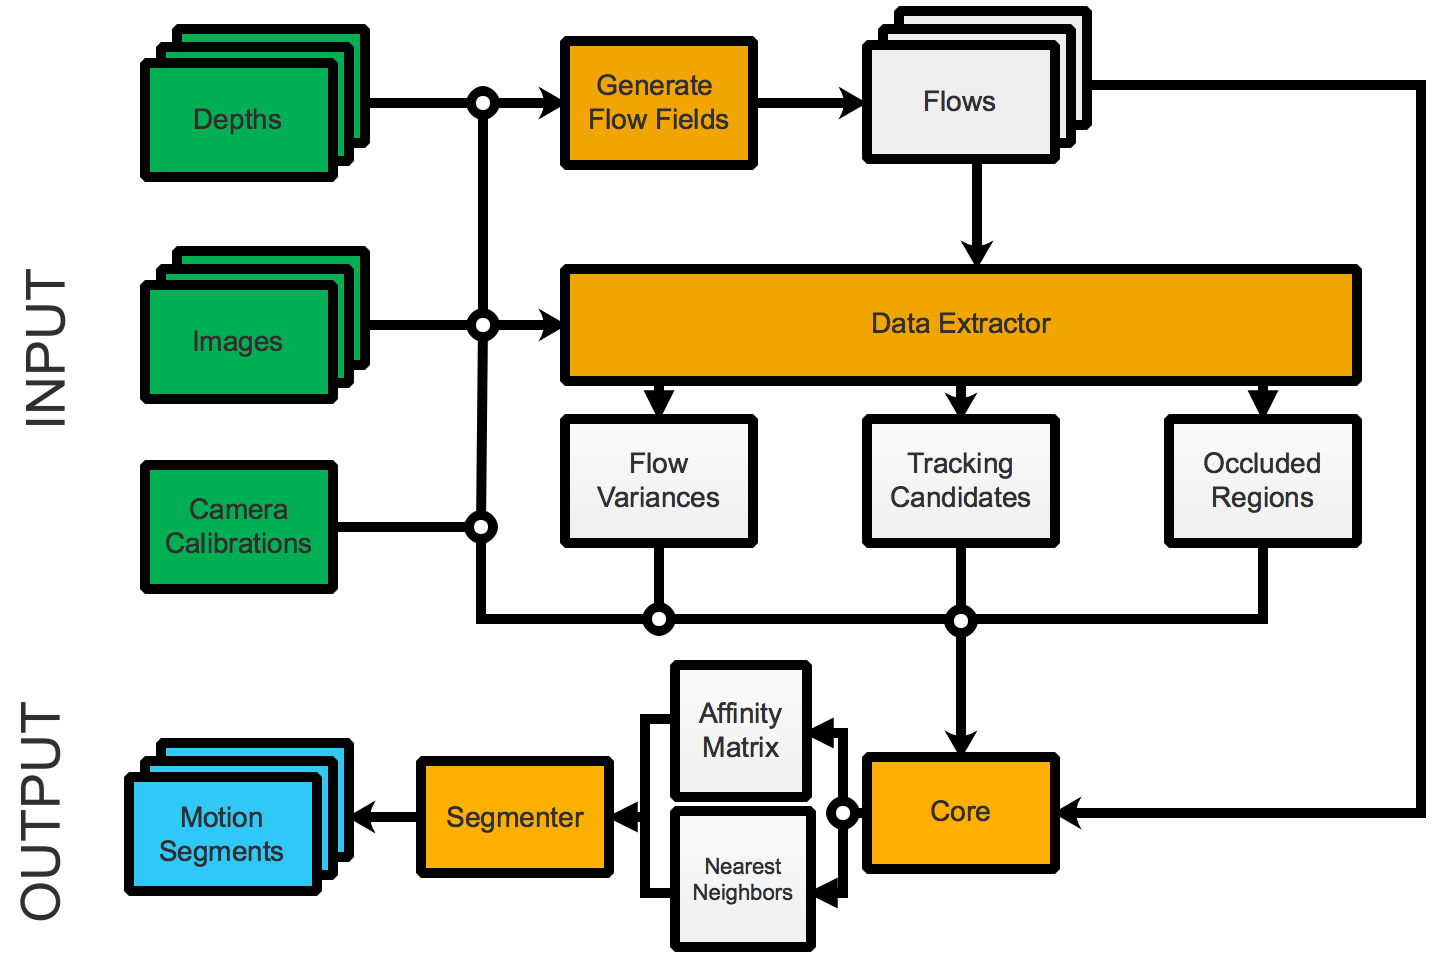
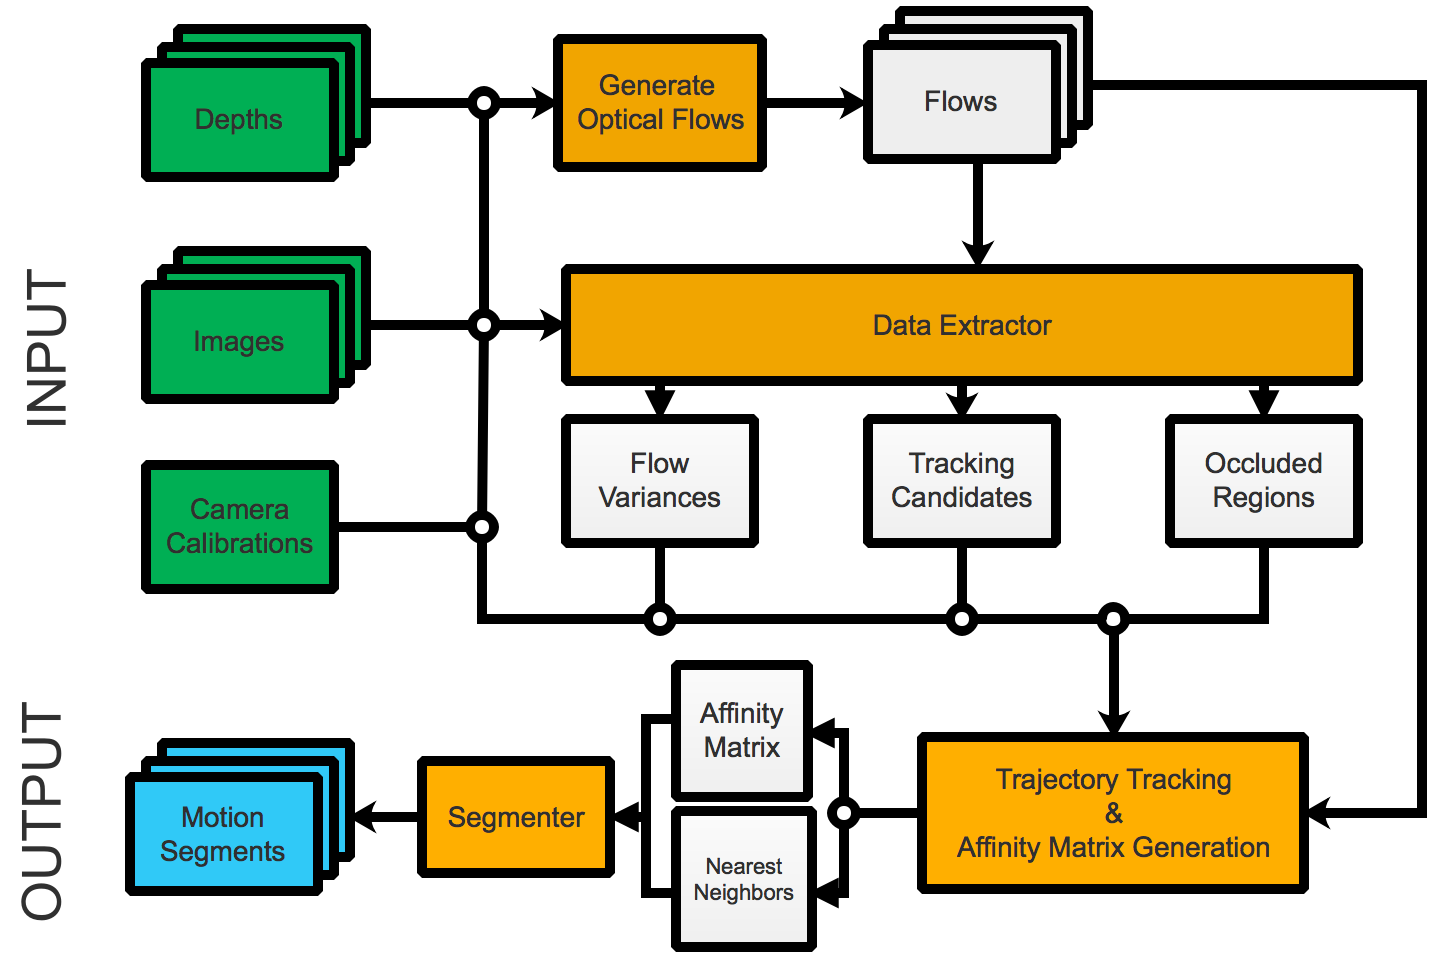
Updated pipeline schmematic to be more consitent
use same naming as in chapters and listings

diff --git a/Document/Source/Chapters/chapter4.tex b/Document/Source/Chapters/chapter4.tex
@@ -21,7 +21,7 @@ In the following let us briefly outline the main stages of our motion segmentati
 \item \textbf{Data Extractor} (Sec. $\ref{sec:data_extraction}$): During t
 In this stage we extract traceable feature locations in our images. Also, a mask containing all invalid tracking locations per image is computed by checking whether the the forward and backward flow correspond to each other. Optionally, depth data, flow and depth variances and color maps are extracted that are used within a later pipeline stage. 
 \item \textbf{Trajectory Tracking} (Sec. $\ref{sec:trajectory_tracking}$): The previously computed flows are used to perform a point tracking on the extracted traceable features. The ordered sequence of tracking points of a feature is called trajectory.
-\item \textbf{Affinity Matrix} (Sec. $\ref{sec:affinity_matrix_impl}$): In this stage the similarities between all trajectory pairs are computed. This is achieved by computing the color-, spatial- and motion distance between the overlapping segments of a pair and combining them in a certain way.
+\item \textbf{Affinity Matrix Generation} (Sec. $\ref{sec:affinity_matrix_impl}$): In this stage the similarities between all trajectory pairs are computed. This is achieved by computing the color-, spatial- and motion distance between the overlapping segments of a pair and combining them in a certain way.
 \item \textbf{Segmenter}: Our pipeline offer two types of segmentations, sparse and dense segmentations. 
 	\begin{enumerate}
 	\item \textbf{Sparse Motion Segmentation} (Sec. $\ref{sec:sparse_motion_segmentation}$): Using the affinity matrix plus the nearest neighbouring trajectories per trajectory, we can compute its dense segmentation by either applying a spectral clustering on the affinity matrix or by reformulating the problem as a graph cut problem. Usually
@@ -436,7 +436,7 @@ Steps to transform 2d image locations $\left( u, v \right)$ to 3d positions $\le
 \end{equation}
 \end{enumerate}
 
-\section{Affinity Matrix}
+\section{Affinity Matrix Generation}
 \label{sec:affinity_matrix_impl}
 In this section we describe the corresponding pipeline stage that is responsible for generating the so called $\textit{affinity matrix}$, which is later used to compute the actual motion segmentation. For this purpose we compute the similarities between the previously tracked trajectories according to a certain measure and then use those values to form a similarity graph as defined in section $\ref{sec:similarity_graphs}$ on page $\pageref{sec:similarity_graphs}$. The final affinity matrix correspond to the adjacency matrix representation of the similarity graph. The used metrics are adapted version of the metrics presented in $\cite{OB14b}$ and $\cite{KB15b}$. \\ \\
 Generally, trajectories of longer videos are asynchronous, i.e. they cover different temporal windows in a shot. Furthermore, the number of points that are tracked across the whole image sequence is small or even empty due to occlusion, disocclusion or the sampling rate. Hence, a measurement matrix that utilizes the coordinates of the tracked points, as used by the multi-body factorization and subspace methods, will have many missing entries and thus is a bad choice. \\ \\
